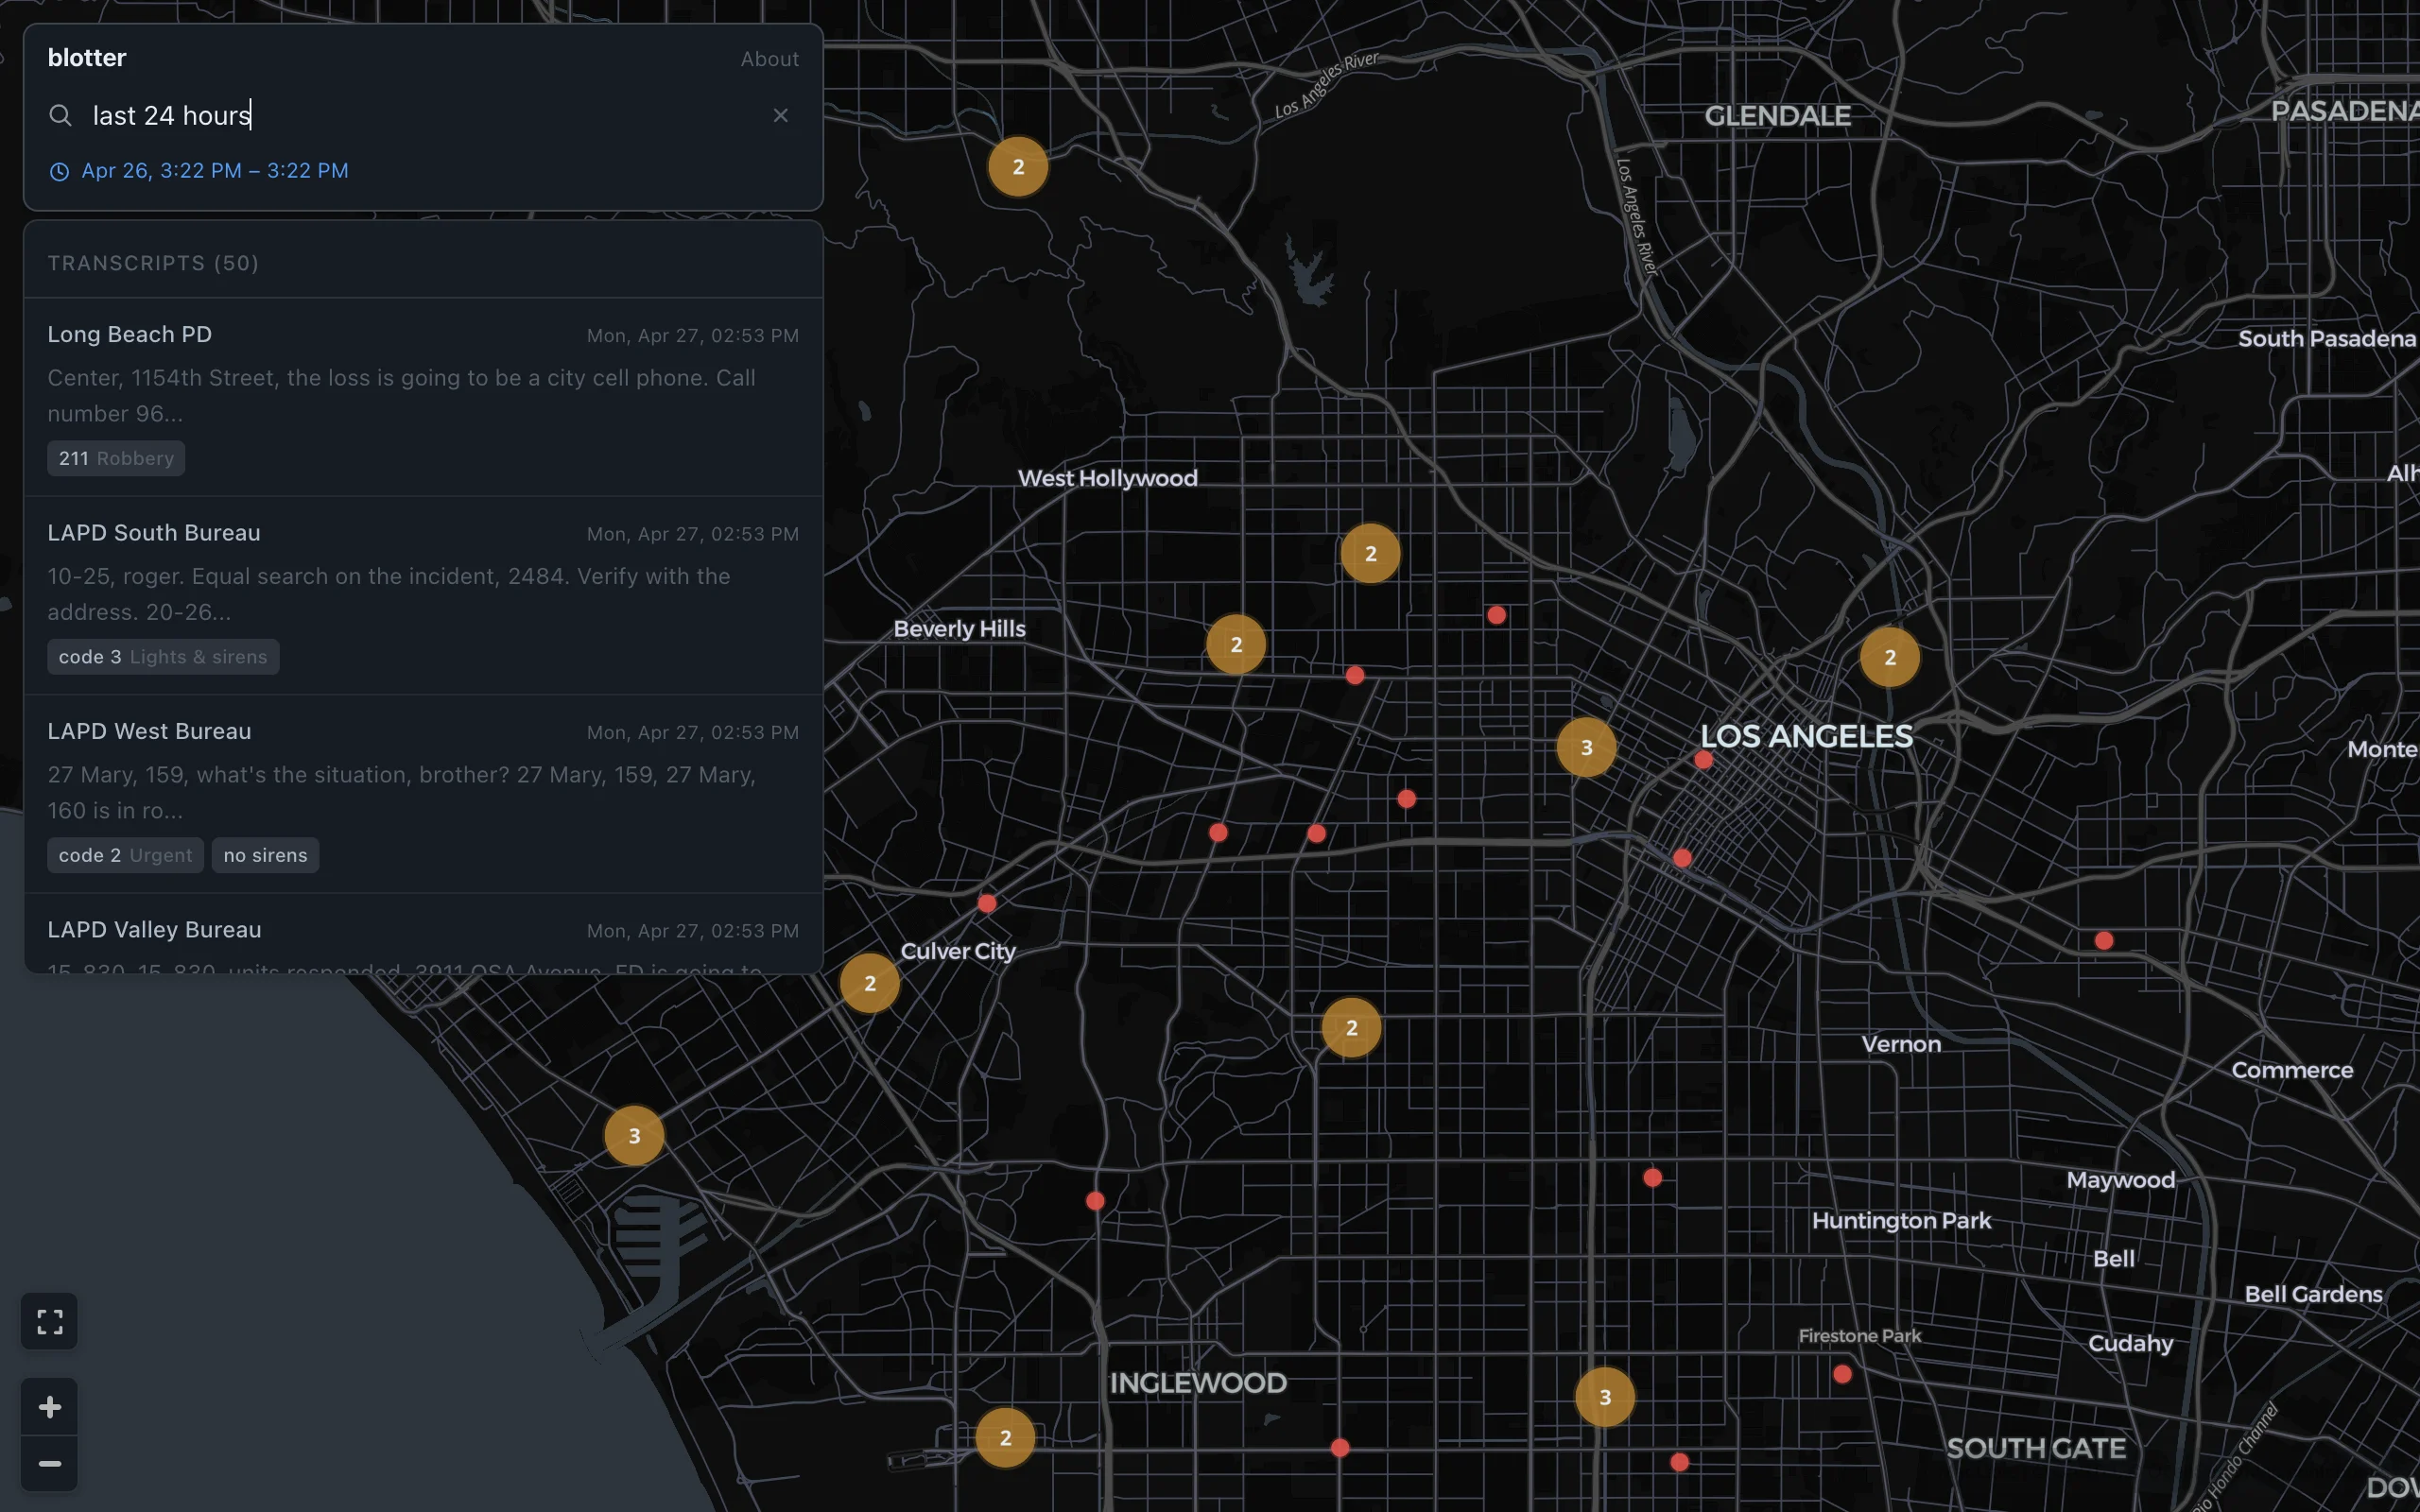
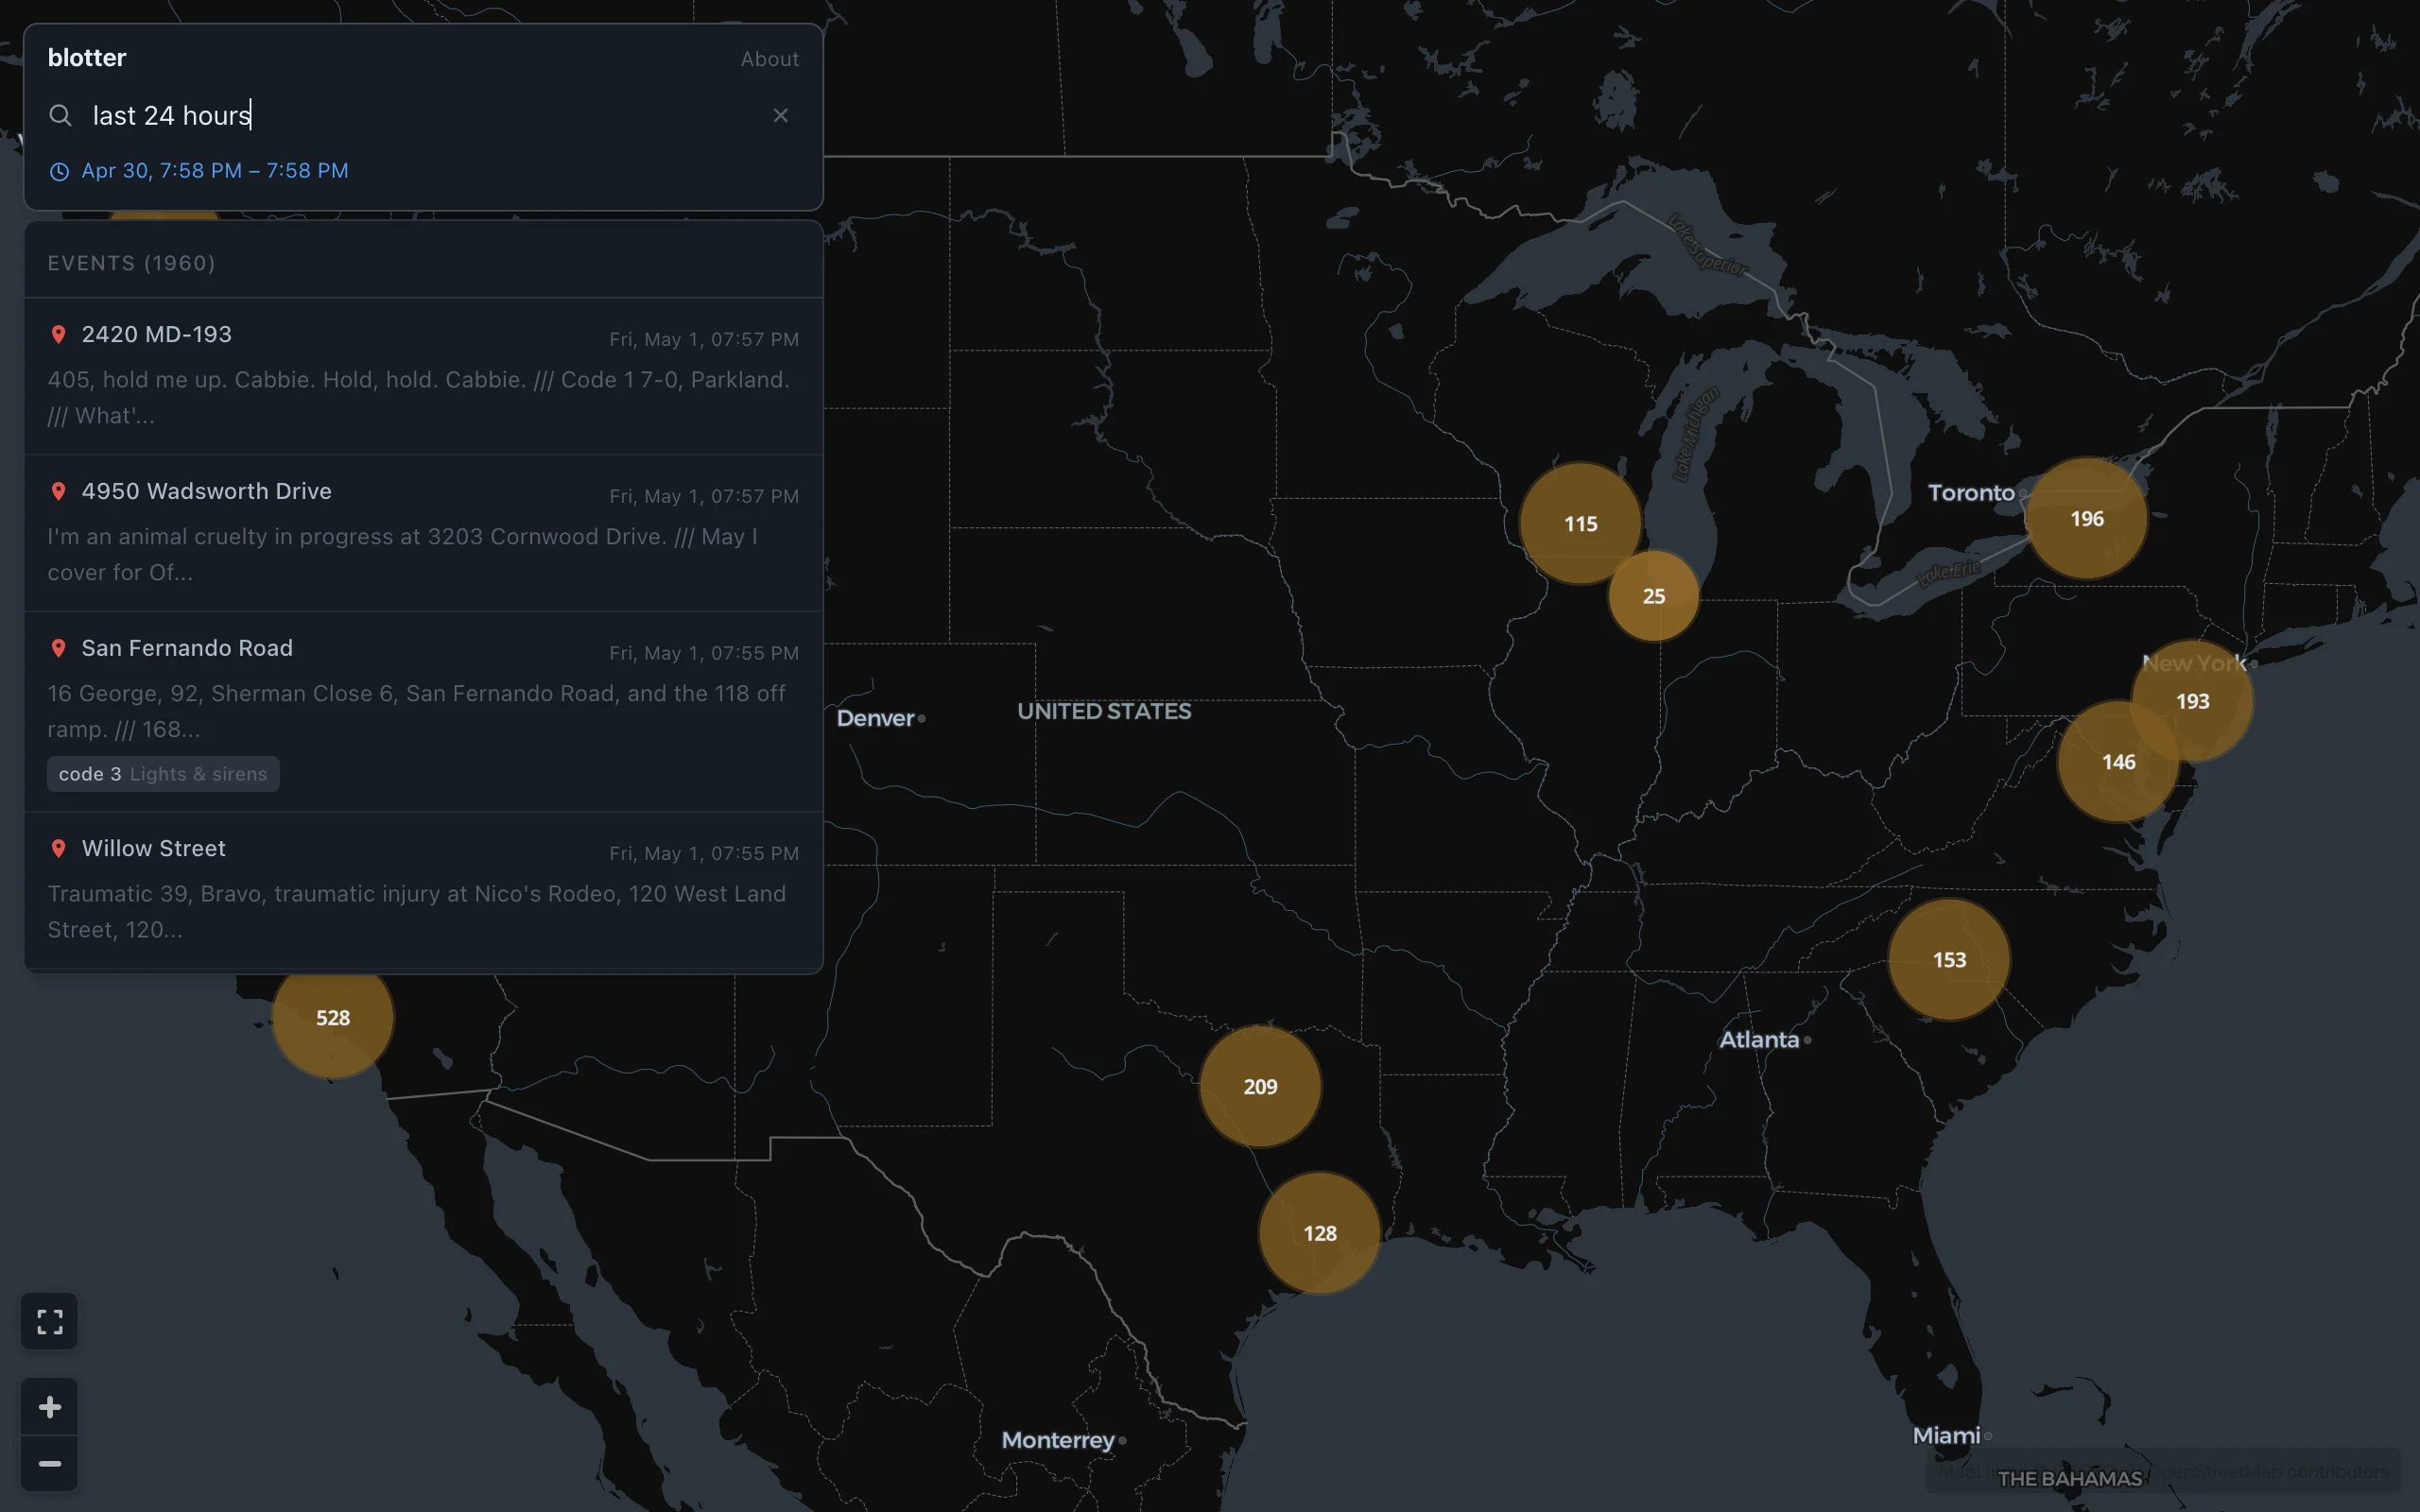
blot

diff --git a/blog/blotter.html b/blog/blotter.html
@@ -24,7 +24,7 @@
     <div class="container">
         <header>
             <h1>Blotter</h1>
-            <p class="meta">Real-time police scanner transcription, entity extraction, and geocoded event mapping for Los Angeles County</p>
+            <p class="meta">Real-time police scanner transcription, entity extraction, and geocoded event mapping across thirteen US metro areas</p>
             <p class="links-row">
                 <a href="https://blotter.fm">Live Demo</a>
                 <a href="https://github.com/sean-reid/blotter">Source</a>
@@ -33,41 +33,39 @@
 
         <article>
             <figure>
-                <img decoding="async" fetchpriority="high" src="img/blotter.webp" alt="Screenshot of Blotter showing geocoded police dispatch events on a dark map of Los Angeles">
-                <figcaption>Blotter's map view showing clustered police dispatch events across Los Angeles County. Each pin is a location extracted from live scanner audio, transcribed and geocoded within minutes of the original dispatch.</figcaption>
+                <img decoding="async" fetchpriority="high" src="img/blotter.webp" alt="Screenshot of Blotter showing geocoded police dispatch events on a dark map with transcript panel">
+                <figcaption>Blotter's map view showing clustered police dispatch events with the transcript panel open. Each pin is a location extracted from live scanner audio, transcribed and geocoded within minutes of the original dispatch.</figcaption>
             </figure>
 
-            <p>Los Angeles County has six public police scanner feeds streaming around the clock on <a href="https://www.broadcastify.com/">Broadcastify</a>: LAPD's South, West, and Valley bureaus, the Hotshot channel, LA Sheriff's Multi-Dispatch, and Long Beach PD. Dispatchers call out intersections, addresses, and cross streets buried in a torrent of codes, callsigns, and status updates. Blotter captures all six feeds in real time, transcribes the audio with <a href="https://github.com/openai/whisper">Whisper</a>, extracts locations from the transcripts, geocodes them to coordinates, and plots the results on an interactive map. From dispatch call to map pin, the entire pipeline runs in about five minutes.</p>
+            <p><a href="https://openmhz.com/">OpenMHz</a> aggregates public police radio systems from cities across the US. Each system records individual dispatch calls as separate audio files, tagged with talkgroup, timestamp, and source. Blotter ingests those calls from thirteen systems spanning a dozen metro areas, from Los Angeles to Chicago to Philadelphia. Each call is transcribed with <a href="https://github.com/openai/whisper">Whisper</a>, run through NLP to extract locations, geocoded to coordinates with city-aware region biasing, and plotted on an interactive map. From dispatch call to map pin, the pipeline runs in about two minutes.</p>
 
             <h2>The pipeline</h2>
 
-            <p>The system is three workers running concurrently: a capture worker, a transcription worker, and a processing worker. They communicate through <a href="https://redis.io/">Redis</a> queues in a linear chain.</p>
+            <p>The system is three worker types running concurrently: a capture worker, three transcription workers, and a processing worker. They communicate through <a href="https://redis.io/">Redis</a> queues in a linear chain.</p>
 
-            <p>The capture worker pulls raw audio from Broadcastify's CDN and chunks it into five-minute WAV segments, uploading each to <a href="https://cloud.google.com/storage">Google Cloud Storage</a>. The transcription worker picks up those chunks, runs them through Whisper on a GPU, extracts police codes from the text, and writes the transcript to <a href="https://clickhouse.com/">ClickHouse</a>. The processing worker takes the transcript text, runs <a href="https://en.wikipedia.org/wiki/Named-entity_recognition">named entity recognition</a> to find locations, geocodes the results to latitude/longitude pairs, and writes the geolocated events to ClickHouse.</p>
+            <p>The capture worker polls the <a href="https://openmhz.com/">OpenMHz</a> API for new calls across all thirteen systems, downloads each call's audio, converts it to WAV, and uploads it to <a href="https://cloud.google.com/storage">Google Cloud Storage</a>. The transcription workers (three running in parallel) pick up those audio files, run them through Whisper on a GPU, extract police codes from the text, and write the transcripts to <a href="https://clickhouse.com/">ClickHouse</a>. The processing worker takes the transcript text, runs <a href="https://en.wikipedia.org/wiki/Named-entity_recognition">named entity recognition</a> to find locations, geocodes them with per-city region biasing, and writes the geolocated events to ClickHouse.</p>
 
-            <p>This separation exists because the three stages have different resource profiles. Capture is I/O-bound: streaming audio from HTTP and writing to disk. Transcription is GPU-bound: Whisper's forward pass dominates the latency. Processing is API-bound: waiting on Google's NLP and Places endpoints. Running them as independent workers behind queues means a slow geocoding call doesn't back up transcription, and a Whisper model reload doesn't stall the audio capture. If any stage falls behind, its queue grows and the others keep running.</p>
+            <p>This separation exists because the three stages have different resource profiles. Capture is I/O-bound: polling an API and writing to disk. Transcription is GPU-bound: Whisper's forward pass dominates the latency, and three parallel workers keep the RTX 3090 saturated. Processing is API-bound: waiting on Google's NLP and Places endpoints. Running them as independent workers behind queues means a slow geocoding call doesn't back up transcription, and a Whisper model reload doesn't stall the audio capture. If any stage falls behind, its queue grows and the others keep running.</p>
 
             <h2>Capture</h2>
 
-            <p>Each of the six feeds is an HTTP audio stream at Broadcastify's CDN. <a href="https://ffmpeg.org/">FFmpeg</a> connects to the stream, resamples to 16 kHz mono, and writes five-minute WAV segments to disk. When a segment completes, it gets uploaded to GCS and a task is pushed onto the capture queue.</p>
+            <p>The original version of Blotter captured continuous audio streams from <a href="https://www.broadcastify.com/">Broadcastify</a> using FFmpeg, splitting them into arbitrary five-minute WAV segments. This worked but created problems: chunk boundaries split sentences in half, ad breaks from Broadcastify's sponsors contaminated transcripts, and the pipeline had no concept of individual radio calls.</p>
 
-            <p>Internet radio streams drop constantly. FFmpeg exits when the connection breaks. The capture worker detects this, waits with exponential backoff starting at 5 seconds and capping at 5 minutes, kills any orphaned FFmpeg processes from previous attempts, and reconnects. After 10 consecutive failures without producing a successful chunk, the backoff grows more aggressive.</p>
+            <p>The current architecture uses <a href="https://openmhz.com/">OpenMHz</a>, which provides per-call audio files via a JSON API. Each call is a single radio transmission, typically 5-60 seconds long, already segmented at natural boundaries. The capture worker runs a <a href="https://playwright.dev/">Playwright</a> browser session per system to maintain an authenticated session that handles <a href="https://www.cloudflare.com/products/turnstile/">Cloudflare challenges</a>, then polls the API every 10 seconds for new calls.</p>
 
-            <p>Fresh connections to Broadcastify play a 30-35 second station identification clip before the actual scanner audio begins. Without handling this, the first chunk of every reconnection would open with "This is the Los Angeles Police Department South Bureau..." instead of actual dispatch. The capture worker flags the first chunk after each new connection. When the transcription worker sees that flag, it trims the first 35 seconds of audio before feeding it to Whisper and replaces the GCS file with the trimmed version so the stored audio matches the transcript.</p>
+            <p>For each new call, the worker downloads the MP3 audio, converts it to 16 kHz mono WAV with <a href="https://ffmpeg.org/">FFmpeg</a>, uploads the WAV to GCS, and enqueues a transcription task. Each call carries a <a href="https://en.wikipedia.org/wiki/Trunked_radio_system#Talkgroup">talkgroup</a> identifier, so the feed ID becomes <code>{system}-{talkgroup}</code> and the display name resolves to something like "Chicago Police - Zone 5" or "LAPD Valley Bureau - Dispatch." A Redis set with 24-hour TTL tracks seen call IDs to prevent duplicate ingestion if the API returns overlapping pages.</p>
+
+            <p>Thirteen systems run in parallel: LAPD Valley and West bureaus, Chicago PD, Charlotte-Mecklenburg, Philadelphia, Seattle PSERN, San Francisco PD, Prince George's County, Portland, Dallas, NW Harris County, Dane County, and Monroe County. Each system has its own Playwright browser instance and polling loop, with exponential backoff on failures.</p>
 
             <h2>Transcription</h2>
 
-            <p><a href="https://github.com/openai/whisper">Whisper large-v3</a> runs through <a href="https://github.com/SYSTRAN/faster-whisper">Faster Whisper</a>, a <a href="https://github.com/OpenNMT/CTranslate2">CTranslate2</a>-based reimplementation that is significantly faster than the original PyTorch model while producing identical output. On an RTX 3090 in float16, a five-minute audio chunk transcribes in about 8-12 seconds depending on how much speech it contains.</p>
+            <p><a href="https://github.com/openai/whisper">Whisper large-v3-turbo</a> runs through <a href="https://github.com/SYSTRAN/faster-whisper">Faster Whisper</a>, a <a href="https://github.com/OpenNMT/CTranslate2">CTranslate2</a>-based reimplementation that is significantly faster than the original PyTorch model while producing identical output. Three transcription workers run in parallel on the same RTX 3090 in float16, keeping the GPU saturated as calls arrive from all thirteen systems.</p>
 
-            <p><a href="https://en.wikipedia.org/wiki/Voice_activity_detection">Voice activity detection</a> runs as a preprocessing filter. Scanner feeds have long dead-air stretches between dispatches, and running Whisper on silence produces hallucinations: the model invents plausible-sounding dispatch text to fill the gap. The VAD filter, configured with a 500 ms minimum silence duration and 200 ms speech padding, strips silence before Whisper sees the audio.</p>
+            <p><a href="https://en.wikipedia.org/wiki/Voice_activity_detection">Voice activity detection</a> runs as a preprocessing filter. Running Whisper on silence produces hallucinations: the model invents plausible-sounding dispatch text to fill the gap. The VAD filter, configured with a 500 ms minimum silence duration and 200 ms speech padding, strips silence before Whisper sees the audio.</p>
 
-            <p>Each feed gets its own <a href="https://platform.openai.com/docs/guides/speech-to-text#prompting">initial prompt</a>, a short text of domain vocabulary that biases Whisper's decoder toward police radio terminology. The default prompt includes terms like "10-4," "code 3," "suspect vehicle," "en route," and "on scene." Per-feed prompt files can override this for feeds with distinct vocabulary.</p>
+            <p>Each city gets its own <a href="https://platform.openai.com/docs/guides/speech-to-text#prompting">initial prompt</a> that biases Whisper's decoder toward local vocabulary. The Chicago prompt includes "Districts 1 through 25" and local street names. The Philadelphia prompt includes signal codes used by PPD. The LAPD prompts include division names and LA-specific terminology. Twenty prompt files cover all thirteen systems, with a default fallback for feeds that don't have a city-specific prompt. Getting these right matters: without the Chicago prompt, Whisper consistently misinterprets "Madison" (a major Chicago street) as a person's name.</p>
 
-            <p>The harder problem is chunk boundaries. A five-minute segment is an arbitrary cut that can split a sentence in half. When Whisper transcribes two consecutive chunks independently, the last few words of chunk N often repeat verbatim at the start of chunk N+1, because both chunks contain the same speech near the boundary.</p>
-
-            <p>The boundary deduplication algorithm compares the tail of the previous chunk's transcript against the head of the current chunk. For overlap lengths from 1 to 20 words, it checks whether the last K words of the previous text match the first K words of the current text. The longest match is stripped from the current output. This is a word-level suffix-prefix overlap check: fast, and effective at eliminating the stutter that would otherwise appear every five minutes in the transcript.</p>
-
-            <p>The transcription worker also maintains a rolling buffer of the five most recent transcript texts per feed. This context window is available for downstream stages that need surrounding text to disambiguate a location reference.</p>
+            <p>Since OpenMHz provides per-call audio that's already segmented at natural boundaries, the boundary deduplication problem from the original Broadcastify architecture goes away entirely. Each call is a complete radio transmission, so Whisper transcribes the full utterance without worrying about sentences split across chunks.</p>
 
             <h2>Extracting locations from radio chatter</h2>
 
@@ -79,31 +77,31 @@
 
             <p>Several plausibility filters apply beyond the skip list. Single-word entities without a street suffix (street, avenue, boulevard) are dropped, since they're almost always callsign fragments or common nouns. Bare freeway references ("the 110 north") are filtered because they don't resolve to a point. Entities matching the pattern of an incident number or radio code ("RD-1234," "unit 12A44") are excluded.</p>
 
-            <p>Intersection detection is a separate pass over the entity list. When two location-type entities appear within 15 characters of each other in the source text, separated by "and," "at," "&," "/," or a comma, they are combined into an intersection reference. "Florence" and "Normandie" appearing near each other with "and" between them become "Florence and Normandie." This is the most common location format in LAPD dispatch: cross streets identify the nearest intersection to the call.</p>
+            <p>Intersection detection is a separate pass over the entity list. When two location-type entities appear within 15 characters of each other in the source text, separated by "and," "at," "&," "/," or a comma, they are combined into an intersection reference. "Florence" and "Normandie" appearing near each other with "and" between them become "Florence and Normandie." Cross-street intersections are the most common location format in police dispatch across all the cities in the system.</p>
 
             <p>For transcripts where the NLP API returns no usable entities, a regex fallback scans for patterns that look like street addresses (a number followed by words and a street suffix) or intersection constructs. These are tagged with lower confidence but catch locations the ML model misses.</p>
 
-            <p>Ad content is stripped before any extraction runs. Broadcastify intersperses insurance ads, legal services spots, and station promos into the audio stream. A keyword list flags sentences containing terms like "progressive," "geico," "personal injury lawyer," and "free consultation." Once an ad sentence is detected, subsequent sentences are also dropped until one appears with dispatch-like vocabulary: codes, unit designators, or action verbs like "respond" and "en route." If the entire cleaned text contains no dispatch anchors at all, it's treated as a pure ad segment and discarded.</p>
+            <p>Before extraction runs, the processor fetches surrounding transcripts from the same feed within a two-minute window. This gives the NLP stage the full dispatch context: if an officer references a location in one call and follows up with details in the next, both calls are available for entity extraction.</p>
 
             <h2>Geocoding</h2>
 
-            <p>Each extracted location is resolved to coordinates using <a href="https://developers.google.com/maps/documentation/places/web-service">Google's Places API</a>. The lookup uses Find Place From Text with a rectangular location bias centered on LA County. Without the bias, a query for "Florence and Normandie" could resolve to Florence, Italy.</p>
+            <p>Each extracted location is resolved to coordinates using <a href="https://developers.google.com/maps/documentation/places/web-service">Google's Places API</a>. The critical challenge with multi-city support is region biasing. A query for "Madison and State" needs to resolve to Chicago when it comes from <code>chi_cpd</code> and to Madison, Wisconsin when it comes from <code>dane_com</code>.</p>
 
-            <p>Two filters run after the API returns a candidate. First, the result must have a <a href="https://developers.google.com/maps/documentation/places/web-service/supported_types">place type</a> indicating a road: route, intersection, or street_address. This prevents the geocoder from pinning events to parks, businesses, or landmarks that happen to share a name with something mentioned in dispatch. Second, the coordinate must fall within the LA County <a href="https://en.wikipedia.org/wiki/Minimum_bounding_box">bounding box</a>. Anything outside is discarded.</p>
+            <p>Every system maps to a <code>SystemRegion</code> with a display suffix ("Chicago, IL," "Philadelphia, PA") and a geographic bounding box. The geocoder extracts the system ID from the feed ID, looks up the corresponding region, and passes both the suffix and bounding box to the Places API. The suffix appends to the query string ("Madison and State, Chicago, IL"), and the bounding box constrains the <code>locationbias</code> parameter. For LA feeds, a second level of subdivision biases queries toward the specific LAPD division (Valley, West, South, Central) for even tighter geographic targeting.</p>
 
-            <p>The geocoder uses an <a href="https://en.wikipedia.org/wiki/Cache_replacement_policies#Least_recently_used_(LRU)">LRU cache</a> with 4,096 entries. Police dispatches mention the same intersections repeatedly, and the cache eliminates redundant API calls. For intersection locations, the geocoder tries two query formats ("intersection of X and Y" and "X & Y") before giving up.</p>
+            <p>Two filters run after the API returns a candidate. The result must have a <a href="https://developers.google.com/maps/documentation/places/web-service/supported_types">place type</a> indicating a road: route, intersection, or street_address. And the coordinate must fall within the system's <a href="https://en.wikipedia.org/wiki/Minimum_bounding_box">bounding box</a>. Anything outside is discarded. The geocoder uses an <a href="https://en.wikipedia.org/wiki/Cache_replacement_policies#Least_recently_used_(LRU)">LRU cache</a> with 4,096 entries to avoid redundant API calls for the same intersections.</p>
 
             <h2>Deduplication</h2>
 
             <p>Without deduplication, the map fills with clusters of identical pins. A single incident generates multiple dispatch calls, officer check-ins, and status updates, all mentioning the same location within a few minutes.</p>
 
-            <p>Deduplication runs at two levels. At the database level, before inserting a new event, the processor queries ClickHouse for any event with the same normalized location name within the last 10 minutes. If a match exists, the new event is skipped. At the batch level within a single transcript, the processor tracks coordinates of events already created from that chunk and skips anything within 0.002 degrees (roughly 200 meters) of an existing pin. This catches repeated mentions of the same intersection with slightly different wording.</p>
+            <p>Deduplication runs at three levels. At the database level, the events table uses <a href="https://clickhouse.com/docs/en/engines/table-engines/mergetree-family/replacingmergetree">ReplacingMergeTree</a> with ordering key <code>(feed_id, archive_ts, normalized)</code>, so ClickHouse automatically collapses duplicate events with the same feed, timestamp, and location name during background merges. Queries use the <code>FINAL</code> keyword to see deduplicated results before merges complete. At the pipeline level, the processor checks ClickHouse for any event with the same normalized location within the last 10 minutes before inserting. At the batch level within a single transcript, the processor tracks coordinates of events already created and skips anything within 0.002 degrees (roughly 200 meters) of an existing pin.</p>
 
             <h2>ClickHouse and H3</h2>
 
-            <p>The events land in two <a href="https://clickhouse.com/">ClickHouse</a> tables. <code>scanner_transcripts</code> stores the full transcript text, audio URL, timestamped segments, and extracted police codes. <code>scanner_events</code> stores geolocated events with coordinates, confidence scores, surrounding context from the transcript, and tags.</p>
+            <p>The events land in two <a href="https://clickhouse.com/">ClickHouse</a> tables. <code>scanner_transcripts</code> stores the full transcript text, audio URL, timestamped segments, and extracted police codes. <code>scanner_events</code> stores geolocated events with coordinates, confidence scores, surrounding context from the transcript, and tags. Both tables carry a 7-day TTL: rows older than a week are automatically dropped during background merges.</p>
 
-            <p>The events table uses <a href="https://h3geo.org/">Uber's H3</a> hexagonal indexing for spatial queries. Each event's coordinates are converted to an H3 index at resolution 9 (hexagons roughly 150 meters across) via ClickHouse's built-in <code>geoToH3</code> function, stored as a <a href="https://clickhouse.com/docs/en/sql-reference/statements/create/table#materialized">materialized column</a>. The <a href="https://clickhouse.com/docs/en/engines/table-engines/mergetree-family/mergetree">MergeTree</a> ordering key is <code>(toDate(event_ts), h3_index, event_ts)</code>, which clusters events by day and spatial cell on disk. Time-range queries with geographic bounds hit only the relevant granules instead of scanning the full table.</p>
+            <p>The events table uses <a href="https://h3geo.org/">Uber's H3</a> hexagonal indexing for spatial queries. Each event's coordinates are converted to an H3 index at resolution 9 (hexagons roughly 150 meters across) via ClickHouse's built-in <code>geoToH3</code> function, stored as a <a href="https://clickhouse.com/docs/en/sql-reference/statements/create/table#materialized">materialized column</a>.</p>
 
             <p>The frontend talks to ClickHouse through a <a href="https://developers.cloudflare.com/pages/functions/">Cloudflare Pages Function</a> acting as a SQL proxy. The function validates that incoming queries are read-only (the first keyword must be SELECT, WITH, SHOW, or DESCRIBE), forwards them to ClickHouse over a <a href="https://developers.cloudflare.com/cloudflare-one/connections/connect-networks/">Cloudflare Tunnel</a> with read-only credentials, and returns the result. The tunnel means ClickHouse doesn't need a public IP or a static address.</p>
 
@@ -113,17 +111,17 @@
 
             <p>The search bar accepts natural language time expressions. Typing "last 6 hours," "yesterday," or "this morning" parses the input with <a href="https://github.com/wanasit/chrono">chrono-node</a>, a natural language date parser, and sets the query time range. Shorthand forms like "last 3h" and "past 30m" hit a faster regex path before chrono runs. Whatever text remains after stripping the time expression becomes an ILIKE filter against the transcript, normalized location, and police code tags in ClickHouse.</p>
 
-            <p>Clicking an event on the map opens a detail panel with the full transcript, the extracted location highlighted in context, the feed name, and the timestamp. From the transcript panel, the original audio is available through a player that highlights segments as they play back. Audio files are served through signed GCS URLs that provide time-limited access without exposing the bucket publicly.</p>
+            <p>Clicking an event on the map opens a detail panel that fetches all transcripts from the same feed within a two-minute window of the event. Instead of showing a single isolated call, the panel displays the full chain of radio traffic around the incident: the initial dispatch, officer acknowledgments, status updates, and follow-ups. Each call appears as a separate block with its own timestamp and audio player. Playback auto-advances through the calls in sequence, so you can listen to the entire exchange hands-free.</p>
 
-            <p>Police codes in the transcript (<a href="https://en.wikipedia.org/wiki/Police_code#702">10-codes</a>, California penal codes, and LAPD status codes) are tagged and displayed as expandable chips with human-readable labels. A regex pass over each transcript matches patterns like "code 3" (lights and sirens), "10-97" (arrived at scene), "459" (burglary), and "11-80" (major accident), drawing from a dictionary of about 60 codes.</p>
+            <p>Police codes in the transcripts (<a href="https://en.wikipedia.org/wiki/Police_code#702">10-codes</a>, penal codes, and signal codes) are tagged and displayed as expandable chips with human-readable labels. The code dictionary covers both universal codes (10-4, code 3) and jurisdiction-specific ones: California penal codes for LA, signal codes for Charlotte and Dallas, and standard radio codes across all cities.</p>
 
             <p>The map polls for new events every 15 seconds. Relative time ranges ("last 6 hours") update their absolute boundaries on each poll, so the window rolls forward with the clock rather than going stale.</p>
 
             <h2>Infrastructure</h2>
 
-            <p>The backend runs on a <a href="https://www.runpod.io/">RunPod</a> spot instance with an RTX 3090 at $0.25/hour, about $180/month for continuous operation. All three workers run on the same pod under <a href="http://supervisord.org/">supervisord</a>. ClickHouse and Redis run alongside them, with data persisted to a network volume that survives pod restarts and rebalancing.</p>
+            <p>The backend runs on a <a href="https://www.runpod.io/">RunPod</a> spot instance with an RTX 3090 at $0.25/hour, about $180/month for continuous operation. Five worker processes run on the same pod under <a href="http://supervisord.org/">supervisord</a>: one capture worker (running thirteen Playwright browser sessions), three transcription workers sharing the GPU, and one processing worker. ClickHouse and Redis run alongside them, with data persisted to a network volume that survives pod restarts.</p>
 
-            <p>The frontend deploys to <a href="https://pages.cloudflare.com/">Cloudflare Pages</a> via GitHub Actions on push. A Cloudflare Tunnel connects the pod's ClickHouse instance to <code>ch.blotter.fm</code> so the Pages Function can reach the database without the pod needing a public IP. The entire system runs for under $200/month: GPU compute, a few dollars of GCS storage for the audio archive, and Cloudflare's free tier for hosting and tunneling. That buys continuous transcription of six scanner feeds, real-time geocoded event mapping, full-text search across every transcript, and audio playback for every dispatch.</p>
+            <p>The frontend deploys to <a href="https://pages.cloudflare.com/">Cloudflare Pages</a> via GitHub Actions on push. A Cloudflare Tunnel connects the pod's ClickHouse instance to <code>ch.blotter.fm</code> so the Pages Function can reach the database without the pod needing a public IP. The entire system runs for under $200/month: GPU compute, a few dollars of GCS storage for the audio archive, and Cloudflare's free tier for hosting and tunneling. That buys continuous transcription of thirteen police radio systems across the country, real-time geocoded event mapping, full-text search across every transcript, and audio playback for every dispatch call.</p>
         </article>
 
     </div>